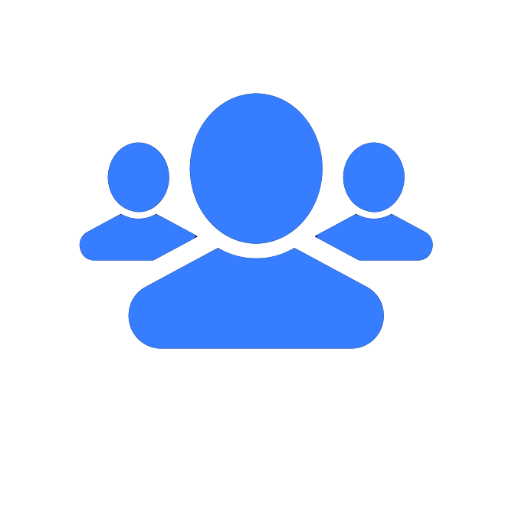
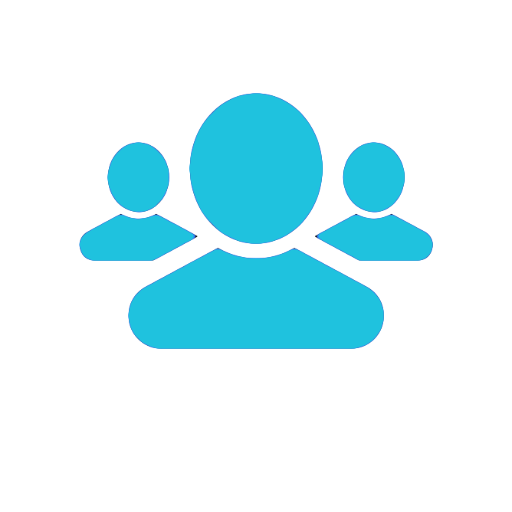
updates to referral page and css colors

Changed region(s): [[0.1562, 0.1562, 0.8438, 0.6875]]

diff --git a/referral.html b/referral.html
@@ -249,65 +249,68 @@
     <div class="container">
       <br><br>
       <!-- Title -->
-      <div class="w-md-80 w-lg-50 text-center mx-auto mb-9">
+      <div class="w-md-80 w-lg-50 text-center mx-auto mb-2 u-space-0-top">
         <h2 class="text-primary font-weight-normal">How does it <span class="font-weight-bold">work?</span></h2>
         <p>Refer a friend and get <strong>$20</strong> off your next appointment for both you <br>and each of your friends who comes in for an appointment!</p>
-
       </div>
-
       <!-- End Title -->
-      <div class="row align-items-lg-center">
-        <div class="col-lg-6 order-lg-2 mb-7 mb-lg-0">
-          <ul class="list-unstyled">
-            <!-- Info Block -->
-            <li class="u-indicator-steps py-3">
-              <div class="media align-items-center border rounded p-5">
-                <div class="d-flex u-indicator-steps__inner mr-3">
-                  <span class="display-4 text-primary font-weight-medium">1.</span>
-                </div>
-                <div class="media-body">
-                  <p class="mb-0">Tell your friends and family about your great health care experience.</p>
+
+      <!-- Conditions Section -->
+      <div class="card-deck d-block d-md-flex u-space-1-top u-space-1-bottom">
+        <!-- Friends List -->
+        <a class="card u-info-v2 mb-3" style="border: #FC4237 3px solid;">
+          <div class="card-body p-6">
+            <div class="text-center">
+              <div class="media-body">
+                <img class="u-lg-avatar rounded mb-4" src="https://www.iconfinder.com/icons/404627/806633/512/raster?token=1536546322-if3AZlPGll7RPOiHutJx9irYpCx7KriE-leSgnC%2B3AHHnOpGn6/qiP52mDMg%3D" alt="Image Description">
+                <div class="mb-4">
+                  <h3 class="text-primary">
+                    <strong class="font-weight-bold">Share</strong>
+                  </h3>
+                  <p>Tell your friends and family about your great health care experience.</p>
                 </div>
               </div>
-            </li>
-            <!-- End Info Block -->
-
-            <!-- Info Block -->
-            <li class="u-indicator-steps py-3">
-              <div class="media align-items-center border rounded p-5">
-                <div class="d-flex u-indicator-steps__inner mr-3">
-                  <span class="display-4 text-primary font-weight-medium">2.</span>
-                </div>
-                <div class="media-body">
-                  <p class="mb-0">When your friends and family book an appointment with Nexus Massage and Rehab, they will let the receptionist know who referred them.</p>
-                </div>
-              </div>
-            </li>
-            <!-- End Info Block -->
-
-            <!-- Info Block -->
-            <li class="u-indicator-steps py-3">
-              <div class="media align-items-center border rounded p-5">
-                <div class="d-flex u-indicator-steps__inner mr-3">
-                  <span class="display-4 text-primary font-weight-medium">3.</span>
-                </div>
-                <div class="media-body">
-                  <p class="mb-0">A $20 promotional discount will be applied to your account for your next visit, and your friend’s account for their first visit.</p>
-                </div>
-              </div>
-            </li>
-            <!-- End Info Block -->
-          </ul>
-        </div>
-
-        <div class="col-lg-6 order-lg-1">
-          <div class="pr-lg-7">
-            <!-- SVG Icon -->
-            <img src="https://s3.ca-central-1.amazonaws.com/nexusmassageclinic/graphics/referral/referral-network.png" width="500px" alt="SVG Illustration">
-            <!-- End SVG Icon -->
+            </div>
           </div>
-        </div>
+        </a>
+        <!-- End Friends List -->
+
+        <!-- Friends List -->
+        <a class="card u-info-v2 mb-3" style="border: #FC4237 3px solid;">
+          <div class="card-body p-6">
+            <div class="text-center">
+              <div class="media-body">
+                <img class="u-lg-avatar rounded mb-4" src="https://www.iconfinder.com/icons/377882/777831/512/raster?token=1536546407-ZrjuBvCMJM5Xv6NZw0fTfLsIrLNHqqnq-4GQRYVu/YeF7rCXgrs8eK2UEhdw%3D" alt="Image Description">
+                <div class="mb-4">
+                  <h3 class="text-primary">
+                    <strong class="font-weight-bold">Book</strong>
+                  </h3>
+                  <p>When your friends and family book an appointment with Nexus Massage and Rehab, they will let the receptionist know who referred them.</p>
+                </div>
+              </div>
+            </div>
+          </div>
+        </a>
+        <!-- End Friends List -->
+
+        <!-- Friends List -->
+        <a class="card u-info-v2 mb-3" style="border: #FC4237 3px solid;">
+          <div class="card-body p-6">
+            <div class="text-center">
+              <div class="media-body">
+                <img class="u-lg-avatar rounded mb-4" src="https://www.iconfinder.com/icons/2732069/3192871/512/raster?token=1536546367-z9plEVVICFCui16vCmRwHqPssuFWWjHS-10AIAhg1j7BhRjvvWcn%2B6yc/yjk%3D" alt="Image Description">
+                <div class="mb-4">
+                  <h3 class="text-primary">
+                    <strong class="font-weight-bold">Earn</strong>
+                  </h3>
+                  <p>A $20 promotional discount will be applied to your account for your next visit, and your friend’s account for their first visit.</p>
+                </div>
+              </div>
+            </div>
+          </div>
+        </a>
       </div>
+      <!-- End Friends List -->
     </div>
     <!-- End Steps Section -->
 

diff --git a/vision.html b/vision.html
@@ -250,7 +250,7 @@
       <div class="card-group d-block d-lg-flex u-card--gutters-4-lg">
         <div class="card bg-transparent border-0 mb-5 mb-lg-0">
           <!-- Job Listing -->
-          <div class="card-body u-info-v2 bg-white text-center rounded transition-3d-hover p-6">
+          <div class="card-body u-info-v2 bg-white text-center rounded transition-3d-hover p-6" style="border: #FC4237 3px solid;">
             <img class="u-lg-avatar rounded mb-4" src="https://static1.squarespace.com/static/5176fdb5e4b083b631f31303/t/55ca4219e4b0f3c31736af0e/1439318555505/" alt="Image Description">
             <div class="mb-4">
               <h3 class="text-primary">
@@ -265,7 +265,7 @@
 
         <div class="card bg-transparent border-0 mb-5 mb-lg-0">
           <!-- Job Listing -->
-          <div class="card-body u-info-v2 bg-white text-center rounded transition-3d-hover p-6">
+          <div class="card-body u-info-v2 bg-white text-center rounded transition-3d-hover p-6" style="border: #FC4237 3px solid;">
             <img class="u-lg-avatar rounded mb-4" src="https://traekos.com/app/default/assets/addons/default/traekos/traekos-theme/resources/img/icon.png?v=1510685713" alt="Image Description">
             <div class="mb-4">
               <h3 class="text-primary">
@@ -280,7 +280,7 @@
 
         <div class="card bg-transparent border-0">
           <!-- Job Listing -->
-          <div class="card-body u-info-v2 bg-white text-center rounded transition-3d-hover p-6">
+          <div class="card-body u-info-v2 bg-white text-center rounded transition-3d-hover p-6" style="border: #FC4237 3px solid;">
             <img class="u-lg-avatar rounded mb-4" src="https://www.shareicon.net/data/512x512/2017/02/15/878677_community_512x512.png" alt="Image Description">
             <div class="mb-4">
               <h3 class="text-primary">
